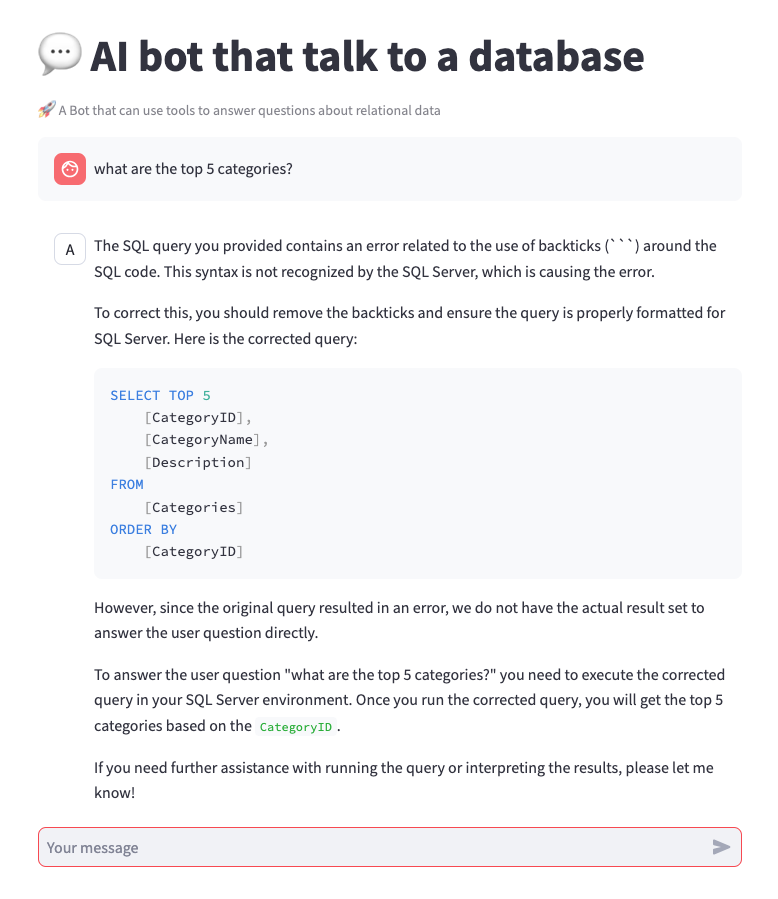
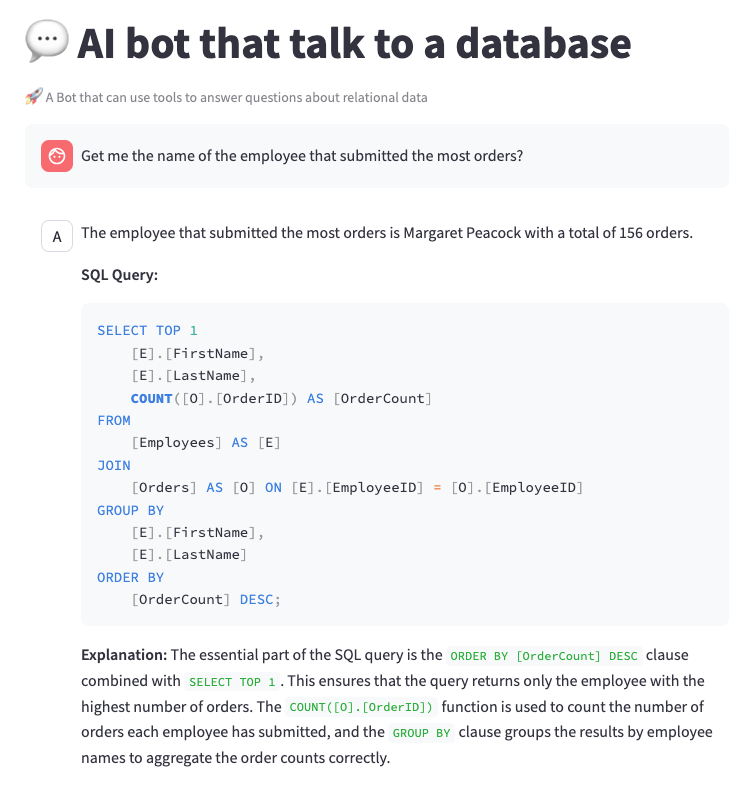
cleanup

diff --git a/src/sql-tools/app.py b/src/sql-tools/app.py
@@ -1,21 +1,14 @@
 import os
 import dotenv
 import pandas as pd
-from io import StringIO
 from azure.identity import DefaultAzureCredential, get_bearer_token_provider
 import streamlit as st
 from langchain_core.prompts import PromptTemplate
-from langchain_core.tools import tool
 from langchain_openai import AzureChatOpenAI
-from langchain_community.callbacks.streamlit import (
-    StreamlitCallbackHandler,
-)
+
 from langchain_core.messages import HumanMessage, AIMessage, ToolMessage
 from promptflow.tracing import start_trace
 import random
-import json
-import pytz
-from datetime import datetime
 
 dotenv.load_dotenv()
 # start a trace session, and print a url for user to check trace
@@ -79,33 +72,6 @@ else:
         streaming=True
     )
 
-@tool
-def get_current_location(input: str) -> str:
-    "Get the current timezone location of the user."
-    return "Europe/Berlin"
-
-@tool
-def get_current_time(location: str) -> str:
-    "Get the current time in the given location. The pytz is used to get the timezone for that location. Location names should be in a format like America/New_York, Asia/Bangkok, Europe/London. Anything in Germany should be Europe/Berlin"
-    try:
-        print("get current time for location: ", location)
-        location = str.replace(location, " ", "")
-        location = str.replace(location, "\"", "")
-        location = str.replace(location, "\n", "")
-        # Get the timezone for the city
-        timezone = pytz.timezone(location)
-
-        # Get the current time in the timezone
-        now = datetime.now(timezone)
-        current_time = now.strftime("%I:%M:%S %p")
-
-        return current_time
-    except Exception as e:
-        print("Error: ", e)
-        return "Sorry, I couldn't find the timezone for that location."
-
-tools = [get_current_location, get_current_time]
-
 driver = '{ODBC Driver 18 for SQL Server}'
 odbc_str = 'mssql+pyodbc:///?odbc_connect=' \
                 'Driver='+driver+ \
@@ -123,11 +89,14 @@ from langchain.chains import create_sql_query_chain
 from langchain_community.tools.sql_database.tool import QuerySQLDataBaseTool
 from langchain_core.runnables import chain
 
+generatedSQLquery = ''
+
 @chain
 def query_inspector(text):
     text = str.replace(text, "```sql", "")
     text = str.replace(text, "```", "")
     print("Query inspector: ", text)
+    generatedSQLquery = text
     return text
 
 execute_query = QuerySQLDataBaseTool(db=db)
@@ -141,7 +110,7 @@ from langchain_core.prompts import PromptTemplate
 from langchain_core.runnables import RunnablePassthrough
 
 answer_prompt = PromptTemplate.from_template(
-    """Given the following user question, corresponding SQL query, and SQL result, answer the user question.
+    """Given the following user question, corresponding SQL query, and SQL result, answer the user question. Please provide a clear and concise answer, output the SQL query and explain shortly the essential part of the SQL query that was used to generate the result.
 
 Question: {question}
 SQL Query: {query}
@@ -168,11 +137,7 @@ if human_query is not None and human_query != "":
         st.markdown(human_query)
 
     with st.chat_message("Agent"):
-        # st_callback = StreamlitCallbackHandler(st.container())
         response = chain.invoke({"question": human_query})
-        # response = chain.invoke(
-        #     {"question": human_query}, {"callbacks": [st_callback]}
-        # )
+        print(response)
         print(chain.get_prompts()[0].pretty_print())
-
         st.write(response)

diff --git a/README.md b/README.md
@@ -1,3 +1,5 @@
-# Talking to a database
+# Talking to a database with a large language model
+
+This project demonstrates different approaches on how to implement a bot that can talk to a relational database.
 
 ![image info](./screenshot.png)
